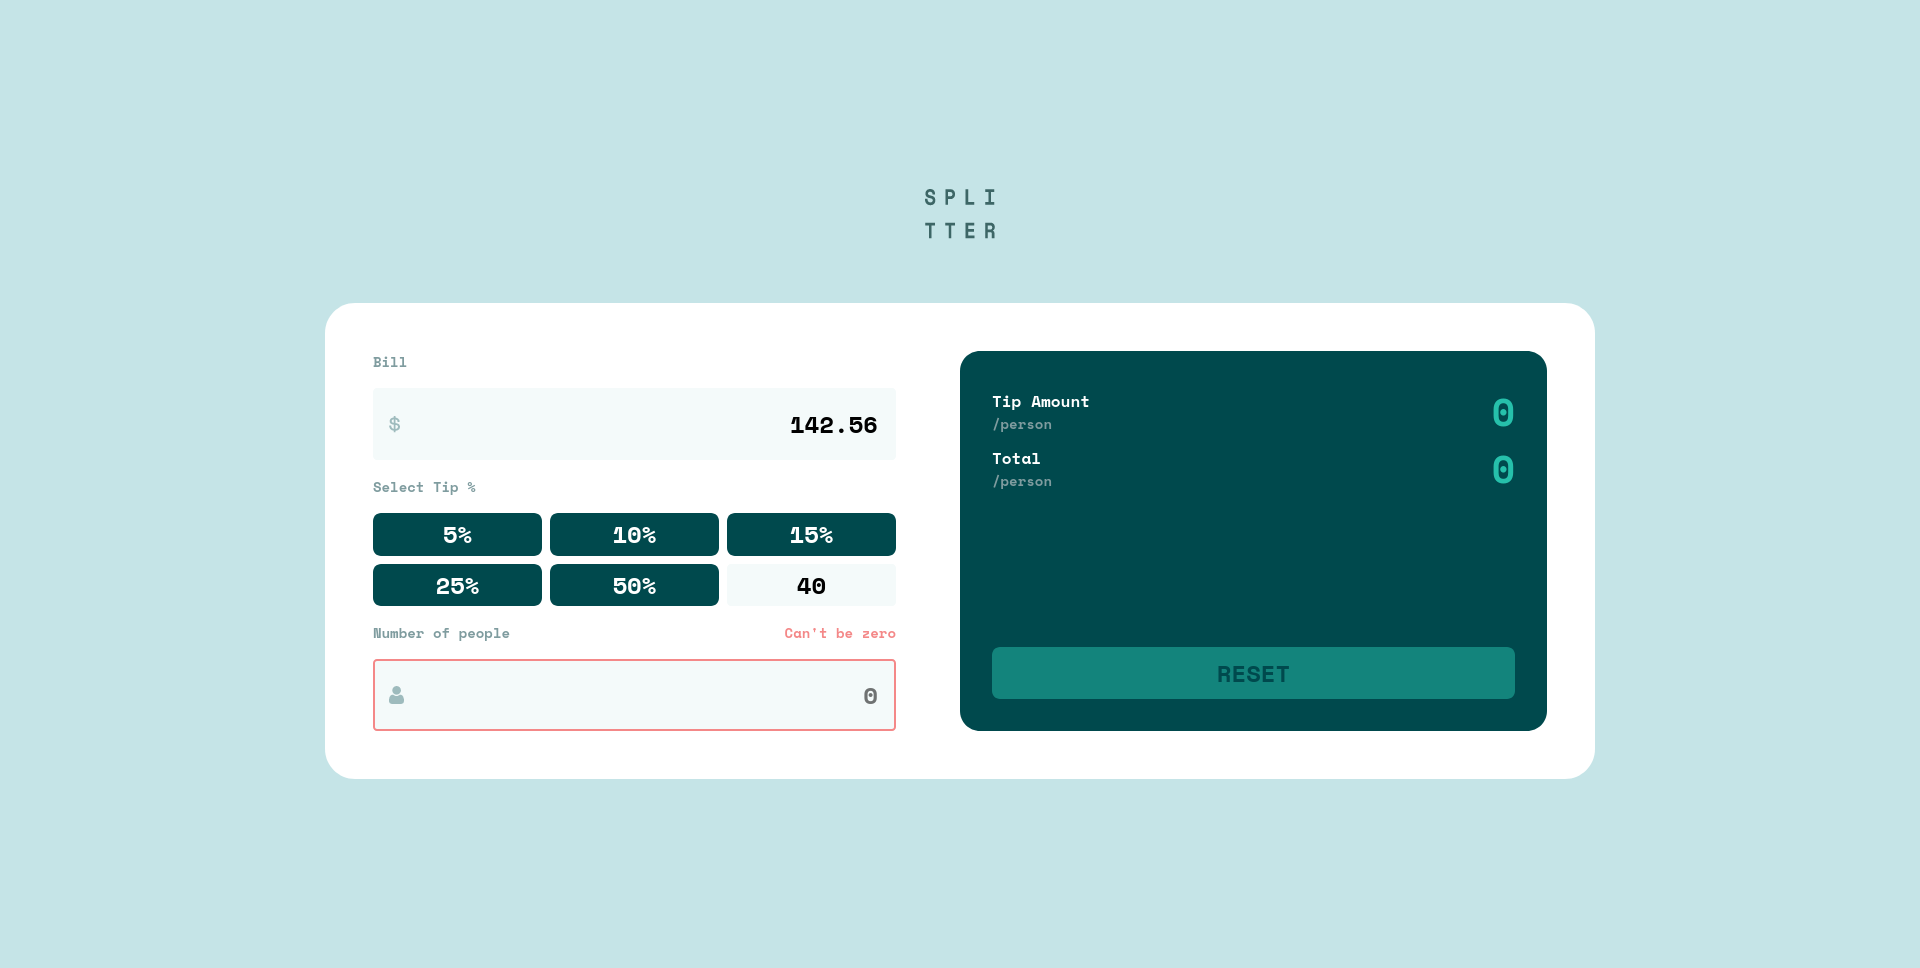
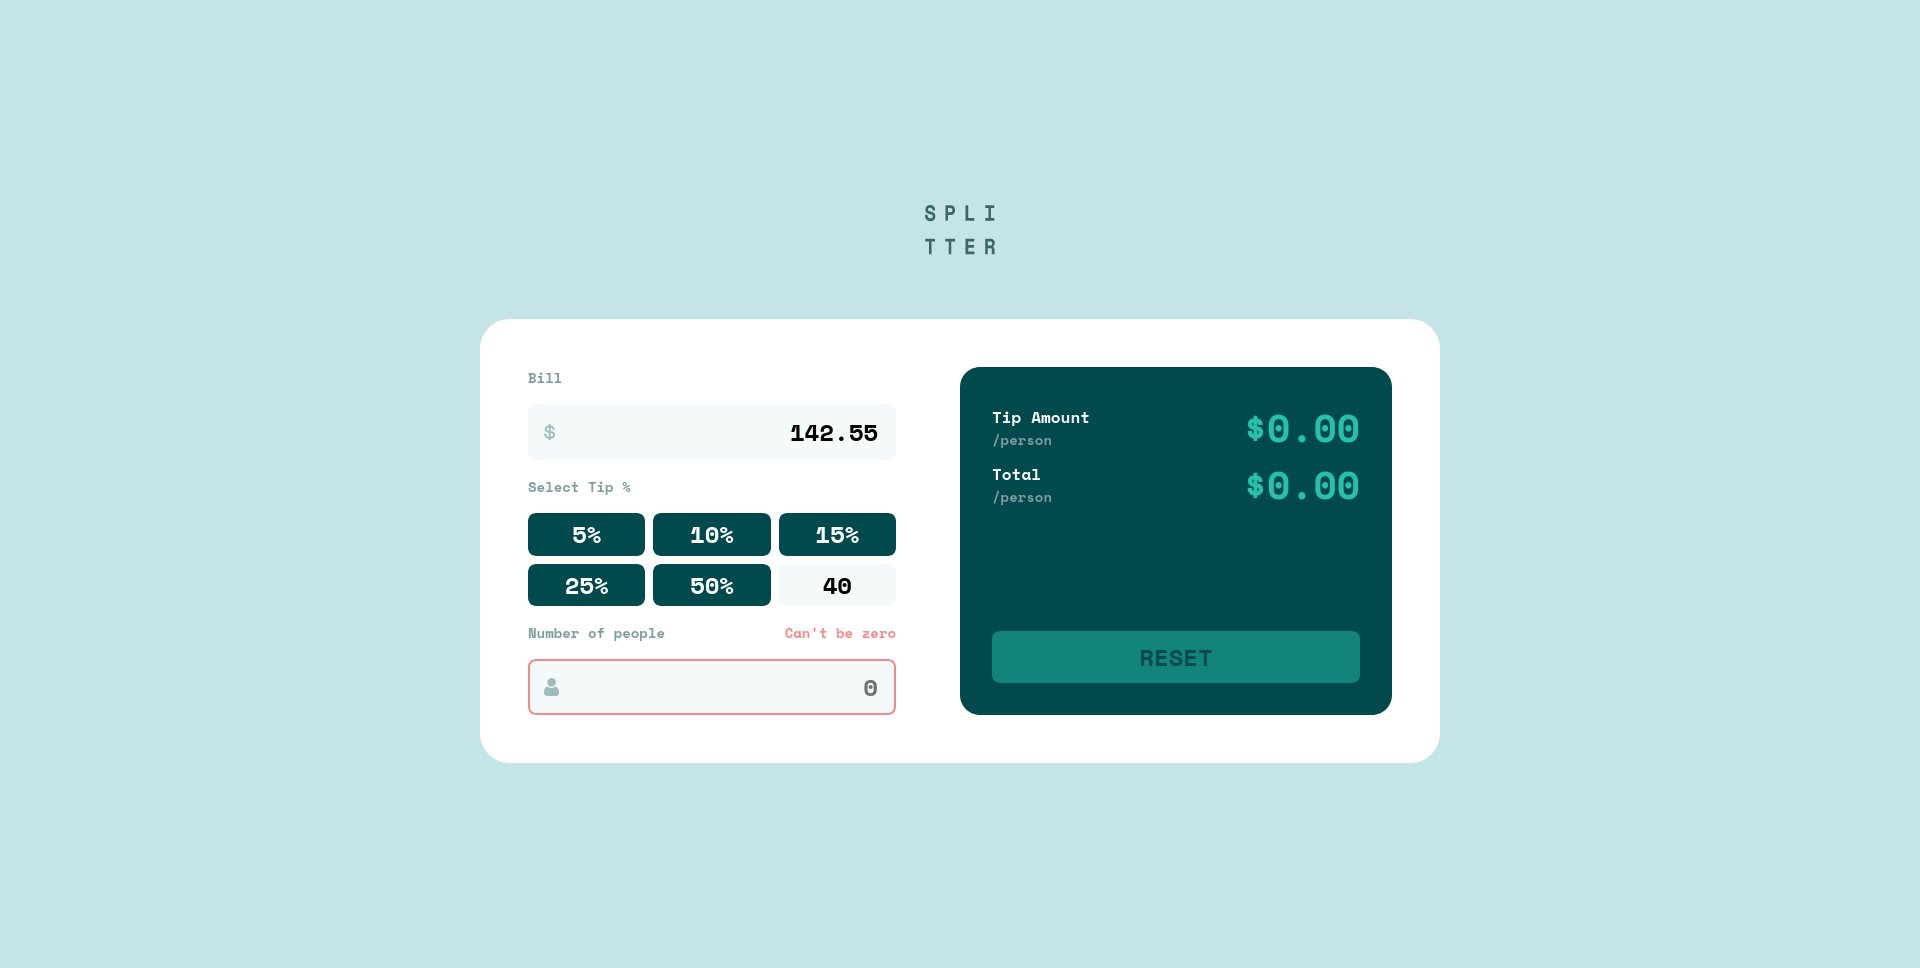
updated container media queries, updated README

diff --git a/src/App.css b/src/App.css
@@ -267,3 +267,13 @@ label {
     width: auto;
   }
 }
+@media (1200px <= width < 1300px) {
+  .app__container {
+    width: 75%;
+  }
+}
+@media (1300px <= width <= 1800px) {
+  .app__container {
+    width: 64%;
+  }
+}

diff --git a/README.md b/README.md
@@ -45,8 +45,8 @@ Users should be able to:
 
 ### Links
 
-- Solution URL: [Add solution URL here](https://your-solution-url.com)
-- Live Site URL: [Add live site URL here](https://your-live-site-url.com)
+- Solution URL: [https://www.frontendmentor.io/solutions/tip-calculator-app-4CvTo2Ofw7](https://www.frontendmentor.io/solutions/tip-calculator-app-4CvTo2Ofw7)
+- Live Site URL: [https://tip-calculator-gmaitor.vercel.app/](https://tip-calculator-gmaitor.vercel.app/)
 
 ## My process
 
